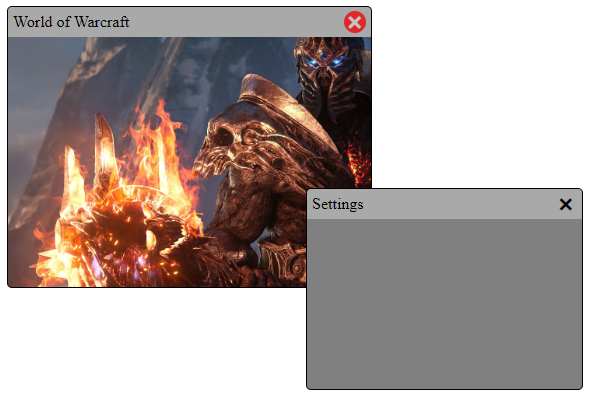
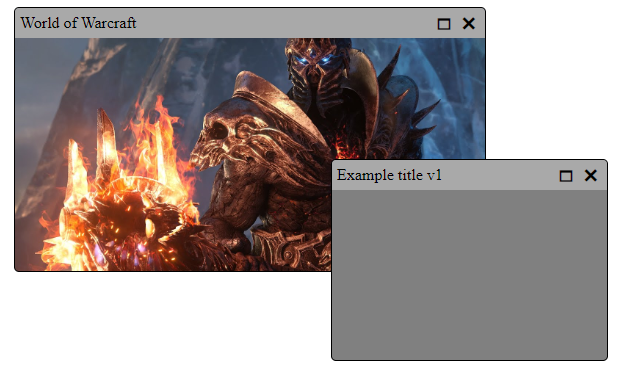
<docs>(README) Change Screenshot in Readme.md

diff --git a/demo/script.js b/demo/script.js
@@ -6,5 +6,5 @@ WoWWindow.setBackgroundImage(
   "https://sm.ign.com/ign_hu/screenshot/default/wow2_pzb2.jpg"
 );
 
-const SettingsWindow = new Window(1, 1, "Settings");
+const SettingsWindow = new Window(1, 1, "Example title v1");
 SettingsWindow.setBackgroundColor("gray");
